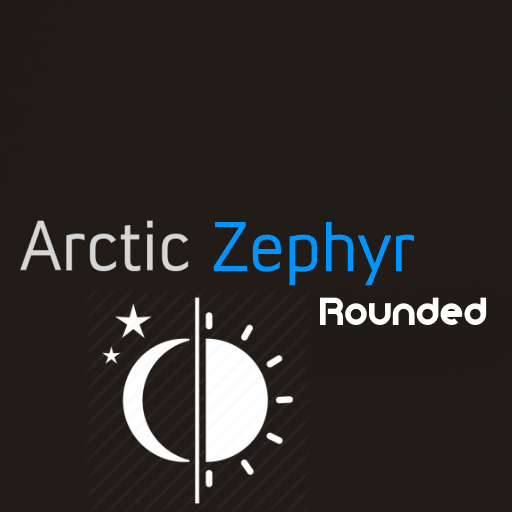
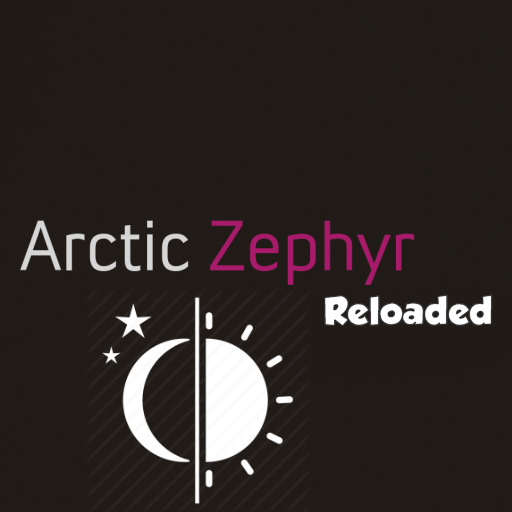
code origine

Changed region(s): [[0.4062, 0.4062, 0.9688, 0.6562]]

diff --git a/service.py b/service.py
@@ -4,31 +4,10 @@
 import xbmc, xbmcaddon, xbmcvfs
 import datetime
 from resources.lib.utils import *
-#import xml.etree.ElementTree as ET
-from functools import lru_cache, wraps
-from time import monotonic_ns
+import xml.etree.ElementTree as ET
 
 addon = xbmcaddon.Addon()
 addonVersion = addon.getAddonInfo("version")
-
-def timed_lru_cache(_func=None, *, seconds: int = 600, maxsize: int = 128, typed: bool = False):
-   def wrapper_cache(f):
-      f = lru_cache(maxsize=maxsize, typed=typed)(f)
-      f.delta = seconds * 10 ** 9
-      f.expiration = monotonic_ns() + f.delta
-      @wraps(f)
-      def wrapped_f(*args, **kwargs):
-         if monotonic_ns() >= f.expiration:
-            f.cache_clear()
-            f.expiration = monotonic_ns() + f.delta
-         return f(*args, **kwargs)
-      wrapped_f.cache_info = f.cache_info
-      wrapped_f.cache_clear = f.cache_clear
-      return wrapped_f
-   if _func is None:
-      return wrapper_cache
-   else:
-      return wrapper_cache(_func)
 
 def dialogcheck():
    try:
@@ -73,25 +52,12 @@ def screensavercheck():
    log("Screensaver Check: %s" % screensaver)
    return screensaver
 
-@timed_lru_cache(seconds=20)
-def GetSkinSetting(activeskin):
-   autocolor = False
-   try:
-      with open(xbmcvfs.translatePath(xbmcaddon.Addon(activeskin).getAddonInfo("profile")) + "settings.xml", 'r') as fp:
-         for l_no, line in enumerate(fp):
-            if 'daynight.autocolor' in line:
-               if 'true' in line:
-                  autocolor = True
-               break
-   except:
-      autocolor = False
-   return autocolor
 
 def main():
    # Get active skin name
    activeskin = xbmc.getSkinDir()
    log("Active Skin: %s" % activeskin)
-   if not activeskin == "skin.arctic.zephyr.rounded":
+   if not activeskin == "skin.arctic.zephyr.mod":
       log("Current active Skin is not Supportet by this Addon!")
       return
 
@@ -100,14 +66,11 @@ def main():
    # Its not working??? Kodi20 Returns Nothing!!! Kodi19 Crashed!!!
    #autocolor = xbmcaddon.Addon(activeskin).getSetting("daynight.autocolor")
    # --------------------------------------------
-   # And this crashed Kodi with Python = 3.11 and higher
-   #SkinPath = xbmcvfs.translatePath(xbmcaddon.Addon(activeskin).getAddonInfo("profile"))
-   #tree = ET.parse(SkinPath + "settings.xml")
-   #root = tree.getroot()
-   #autocolor = root.find('.//setting[@id="daynight.autocolor"]').text
-   # --------------------------------------------
-   # This is a workaround. Works with Kodi19 and 20
-   autocolor = GetSkinSetting(activeskin)
+   SkinPath = xbmcvfs.translatePath(xbmcaddon.Addon(activeskin).getAddonInfo("profile"))
+   tree = ET.parse(SkinPath + "settings.xml")
+   root = tree.getroot()
+   autocolor = root.find('.//setting[@id="daynight.autocolor"]').text
+
    log("Autocolor enabled: %s" % autocolor)
    if not autocolor:
       return

diff --git a/README.md b/README.md
@@ -1,6 +1,6 @@
-![](https://github.com/Nanomani/script.arctic.zephyr.rounded.autocolors/tree/main/resources/images/icon.png)
+![](https://raw.githubusercontent.com/semool/script.arctic.zephyr.mod.autocolors/master/resources/images/icon.png)
 
-## Arctic: Zephyr - Rounded - Automatic Day and Night Colors
+## Arctic: Zephyr - Reloaded - Automatic Day and Night Colors
 
 Install first: https://github.com/semool/script.module.astral/releases/
 
